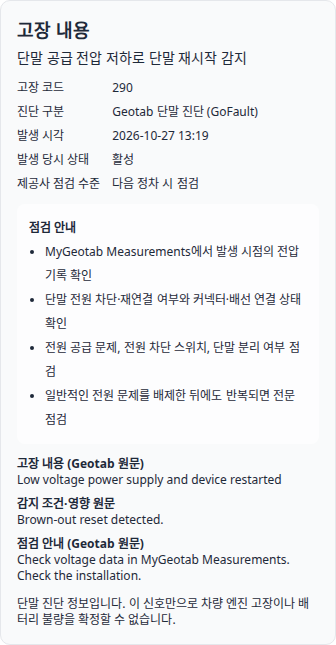
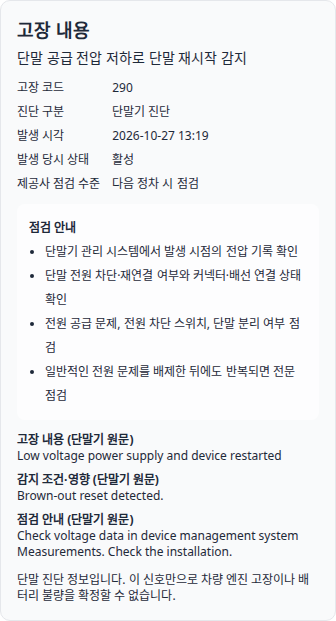
WI-20261029-005 use device-neutral fault card terminology

Changed region(s): [[0.0298, 0.3366, 0.9226, 0.9791], [0.3274, 0.0612, 0.7738, 0.306], [0.0298, 0.0306, 0.2976, 0.306]]

diff --git a/src/app/components/VehicleFaultEvidence.tsx b/src/app/components/VehicleFaultEvidence.tsx
@@ -11,11 +11,17 @@ export interface FaultDetails {
   recommendation?: string;
 }
 
+export function formatDeviceText(value?: string): string {
+  return (value || '')
+    .replace(/\bmygeotab\b/gi, 'device management system')
+    .replace(/\bgeotab\b/gi, 'device');
+}
+
 export function faultSummary(details?: FaultDetails | null): string {
   if (details?.diagnosticType === 'GoFault' && details.code === '290') {
     return '단말 공급 전압 저하로 단말 재시작 감지';
   }
-  return details?.name || '차량 이상 신호 감지';
+  return formatDeviceText(details?.name) || '차량 이상 신호 감지';
 }
 
 export function VehicleFaultEvidence({ details }: { details: FaultDetails }) {
@@ -26,7 +32,7 @@ export function VehicleFaultEvidence({ details }: { details: FaultDetails }) {
       <div><h3 className="font-semibold">고장 내용</h3><p className="mt-1 break-words">{faultSummary(details)}</p></div>
       <dl className="grid grid-cols-[auto_1fr] gap-x-3 gap-y-2 text-xs">
         <dt>고장 코드</dt><dd>{details.code || '미기록'}</dd>
-        <dt>진단 구분</dt><dd>{details.diagnosticType === 'GoFault' ? 'Geotab 단말 진단 (GoFault)' : details.diagnosticType || '미기록'}</dd>
+        <dt>진단 구분</dt><dd>{details.diagnosticType === 'GoFault' ? '단말기 진단' : formatDeviceText(details.diagnosticType) || '미기록'}</dd>
         <dt>발생 시각</dt><dd>{formatDateTimeKst(details.occurredAt, '미기록')}</dd>
         <dt>발생 당시 상태</dt><dd>{state || '미기록'}</dd>
         <dt>제공사 점검 수준</dt><dd>{severity || '미기록'}</dd>
@@ -35,7 +41,7 @@ export function VehicleFaultEvidence({ details }: { details: FaultDetails }) {
         <div className="rounded-md bg-white/70 p-3 text-xs leading-6">
           <p className="font-semibold">점검 안내</p>
           <ul className="list-disc pl-4">
-            <li>MyGeotab Measurements에서 발생 시점의 전압 기록 확인</li>
+            <li>단말기 관리 시스템에서 발생 시점의 전압 기록 확인</li>
             <li>단말 전원 차단·재연결 여부와 커넥터·배선 연결 상태 확인</li>
             <li>전원 공급 문제, 전원 차단 스위치, 단말 분리 여부 점검</li>
             <li>일반적인 전원 문제를 배제한 뒤에도 반복되면 전문 점검</li>
@@ -43,9 +49,9 @@ export function VehicleFaultEvidence({ details }: { details: FaultDetails }) {
         </div>
       )}
       <div className="space-y-2 text-xs">
-        <p><strong>고장 내용 (Geotab 원문)</strong><br />{details.name || '미제공'}</p>
-        <p className="whitespace-pre-line break-words"><strong>감지 조건·영향 원문</strong><br />{details.effectOnComponent || '미제공'}</p>
-        <p className="whitespace-pre-line break-words"><strong>점검 안내 (Geotab 원문)</strong><br />{details.recommendation || '미제공'}</p>
+        <p><strong>고장 내용 (단말기 원문)</strong><br />{formatDeviceText(details.name) || '미제공'}</p>
+        <p className="whitespace-pre-line break-words"><strong>감지 조건·영향 (단말기 원문)</strong><br />{formatDeviceText(details.effectOnComponent) || '미제공'}</p>
+        <p className="whitespace-pre-line break-words"><strong>점검 안내 (단말기 원문)</strong><br />{formatDeviceText(details.recommendation) || '미제공'}</p>
       </div>
       {details.diagnosticType === 'GoFault' && <p className="text-xs">단말 진단 정보입니다. 이 신호만으로 차량 엔진 고장이나 배터리 불량을 확정할 수 없습니다.</p>}
     </section>

diff --git a/e2e/vehicle-incidents.spec.ts b/e2e/vehicle-incidents.spec.ts
@@ -41,7 +41,10 @@ test('fault evidence, asset navigation, newest-first incident cards and return t
   await expect(evidence).toContainText('고장 내용');
   await expect(evidence).toContainText('점검 안내');
   await expect(evidence).toContainText('다음 정차 시 점검');
-  await expect(evidence).toContainText('Check voltage data');
+  await expect(evidence).toContainText('Check voltage data in device management system Measurements. Check the installation.');
+  await expect(evidence).toContainText('단말기 진단');
+  await expect(evidence).toContainText('단말기 원문');
+  await expect(evidence).not.toContainText(/mygeotab|geotab|GoFault/i);
   await expect(evidence).toContainText('단말 공급 전압 저하');
   await page.setViewportSize({ width: 390, height: 844 });
   await expect(evidence).toBeVisible();
@@ -109,9 +112,9 @@ test('unfamiliar fault codes display provider text verbatim without alert-type m
   await expect(evidence).toContainText('고장 코드');
   await expect(evidence).toContainText('98765');
   await expect(evidence.getByText(name, { exact: true })).toBeVisible();
-  expect(await evidence.locator('p').filter({ hasText: '고장 내용 (Geotab 원문)' }).textContent()).toBe(`고장 내용 (Geotab 원문)${name}`);
-  const providerRecommendation = evidence.locator('p').filter({ hasText: '점검 안내 (Geotab 원문)' });
-  expect(await providerRecommendation.textContent()).toBe(`점검 안내 (Geotab 원문)${recommendation}`);
-  await expect(evidence).not.toContainText('MyGeotab Measurements에서 발생 시점의 전압 기록 확인');
+  expect(await evidence.locator('p').filter({ hasText: '고장 내용 (단말기 원문)' }).textContent()).toBe(`고장 내용 (단말기 원문)${name}`);
+  const providerRecommendation = evidence.locator('p').filter({ hasText: '점검 안내 (단말기 원문)' });
+  expect(await providerRecommendation.textContent()).toBe(`점검 안내 (단말기 원문)${recommendation}`);
+  await expect(evidence).not.toContainText('단말기 관리 시스템에서 발생 시점의 전압 기록 확인');
   await expect(page.getByText('차량 이상 알림', { exact: true })).toHaveCount(0);
 });

diff --git a/docs/prompt_history/20261029_device-neutral-fault-copy.md b/docs/prompt_history/20261029_device-neutral-fault-copy.md
@@ -1,0 +1,17 @@
+# WI-20261029-005 Device-neutral fault card copy
+
+## Prompt
+Replace Geotab/MyGeotab references in vehicle-fault issue cards with generic terminology. Use 단말기 원문 rather than 제공사 원문. Support the presentation of other device brands without emphasizing an integration vendor.
+
+## Changes Summary
+- Show 단말기 진단 without the provider-specific GoFault token.
+- Use 단말기 관리 시스템 for the known code 290 voltage-check instruction.
+- Label diagnostic descriptions, effects and guidance with 단말기 원문.
+- Generalize MyGeotab/Geotab mentions within displayed provider text to device management system/device, case-insensitively. Preserve other English wording and newlines. Apply the same formatting to shared history summaries.
+- Keep raw provider data and diagnostic classification unchanged; FE presentation only.
+
+## Affected Files
+src/app/components/VehicleFaultEvidence.tsx, e2e/vehicle-incidents.spec.ts, docs/screenshots/vehicle-fault-evidence.png.
+
+## Validation
+Production build and 3 targeted Chromium E2E tests passed. Existing assertions verify English text/newlines remain unchanged for unfamiliar codes; updated assertions check generic labels and absence of vendor names in the rendered code 290 card. Main remains the user-authorized release target for this workstream.
